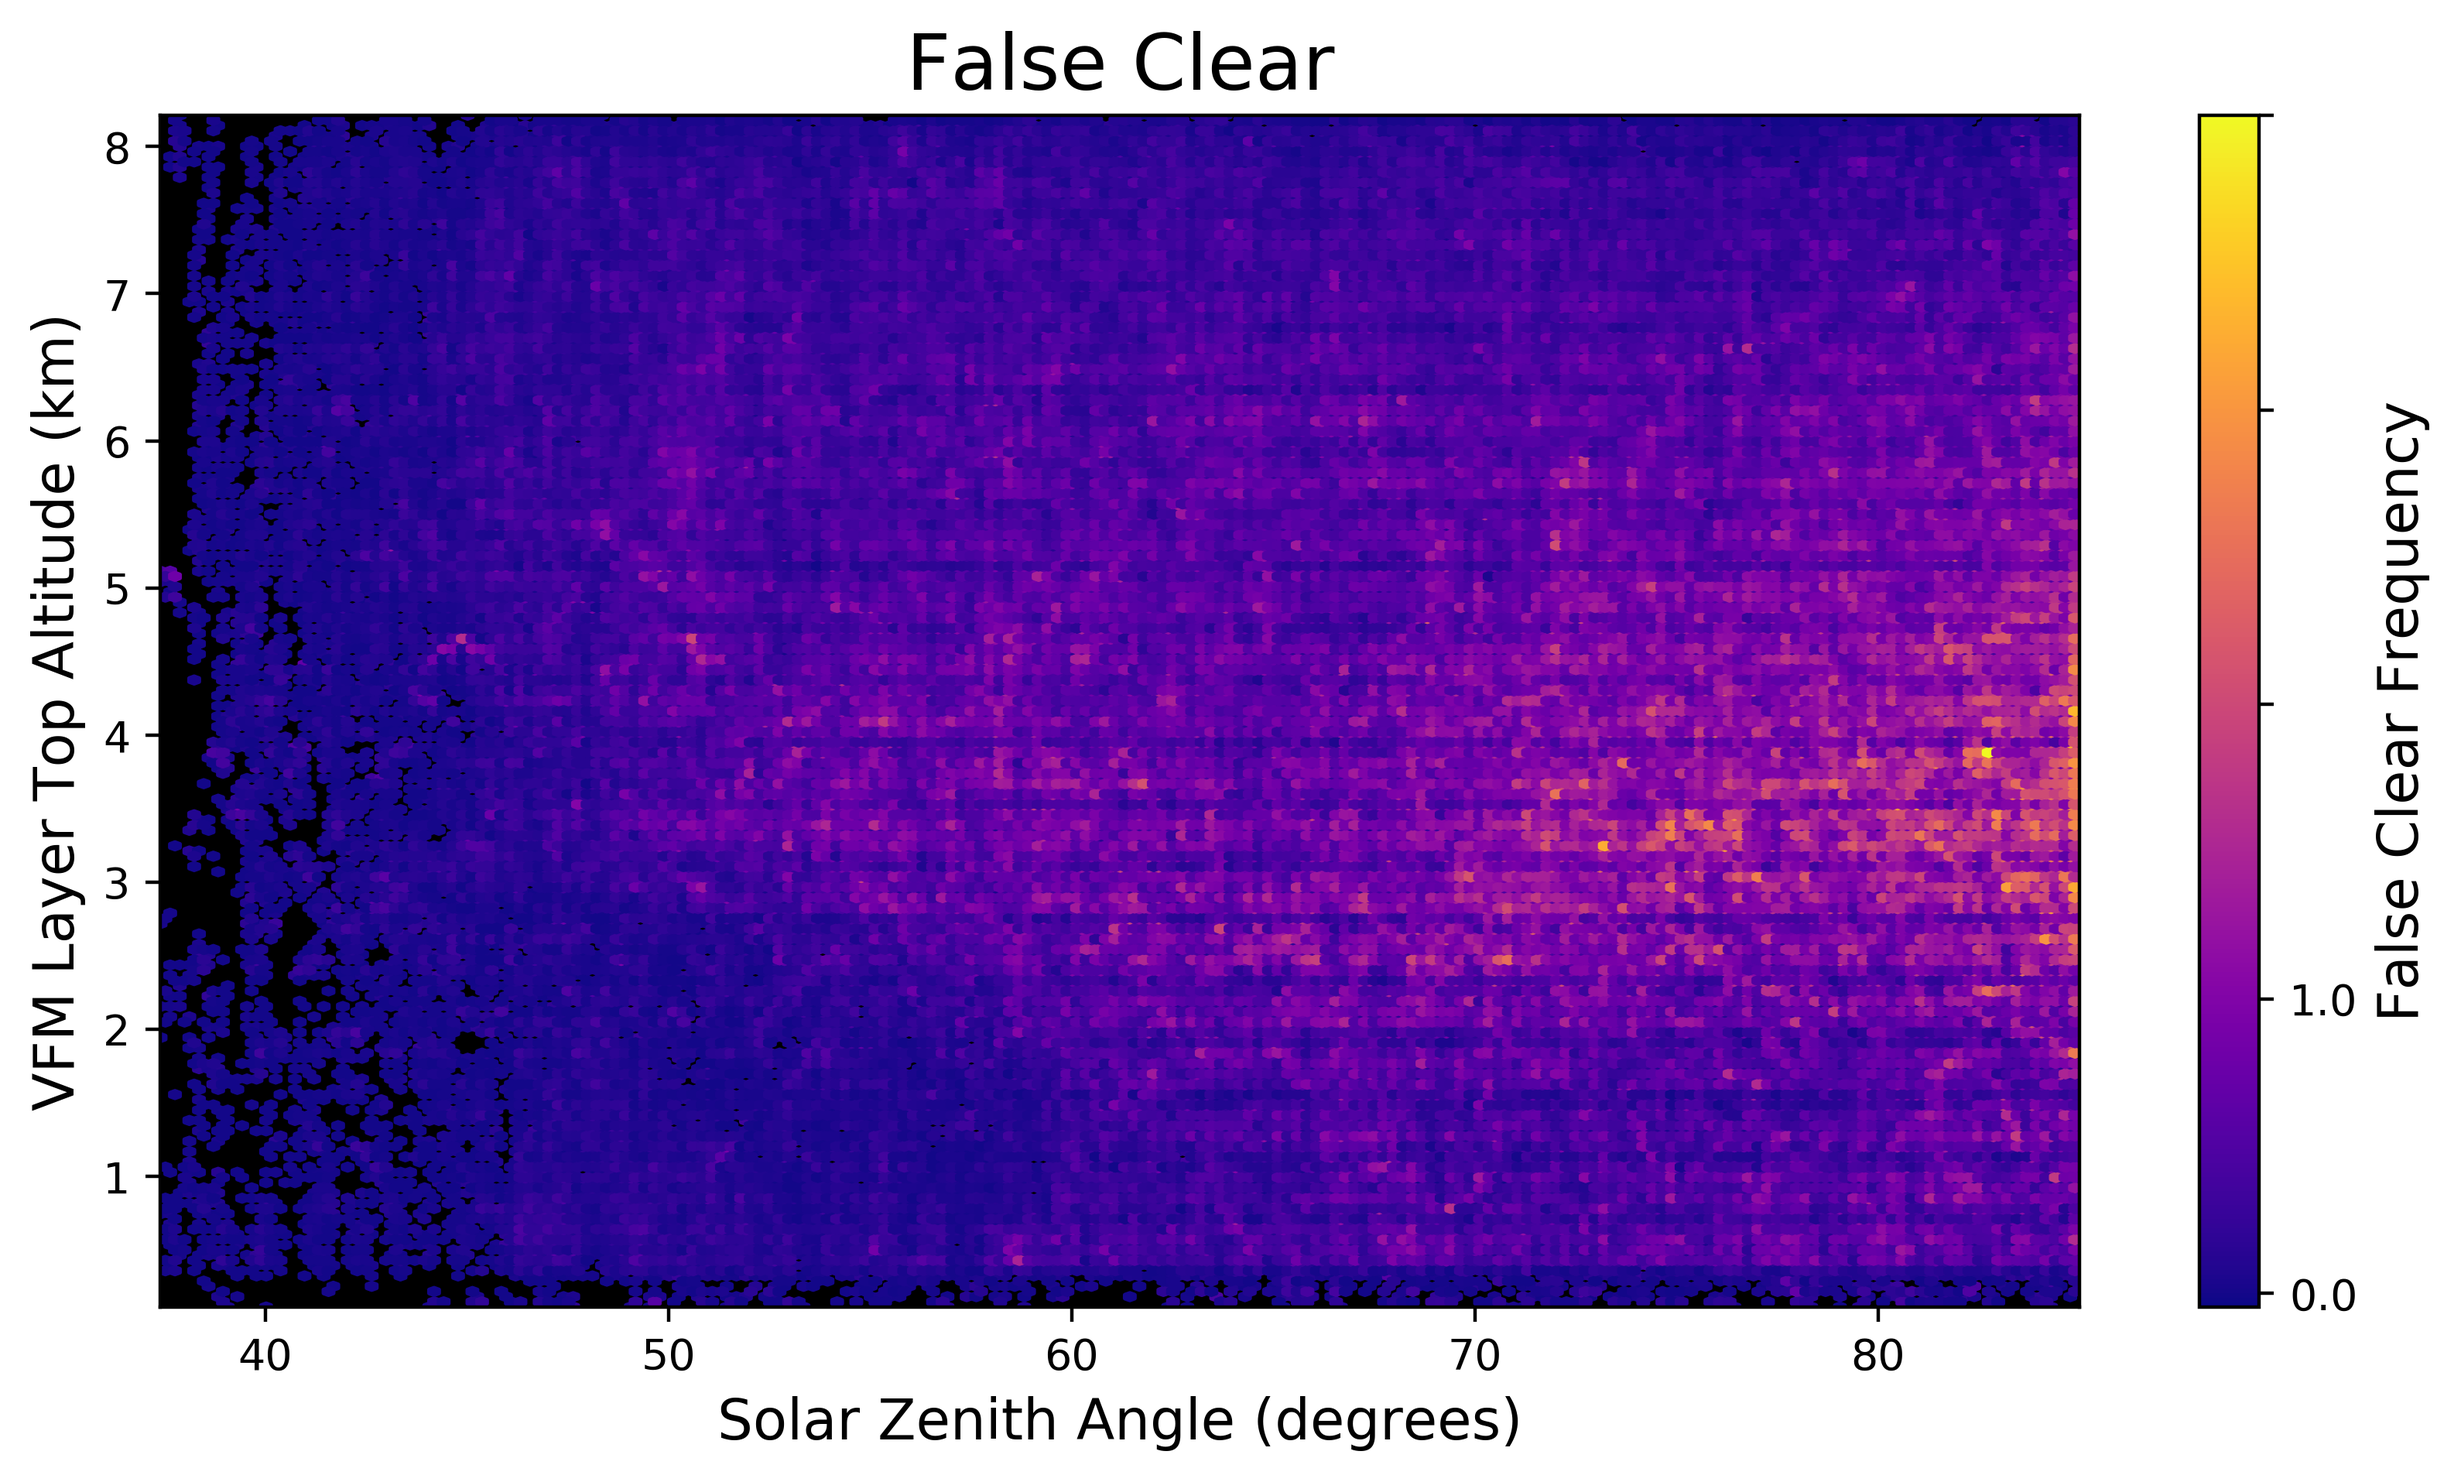
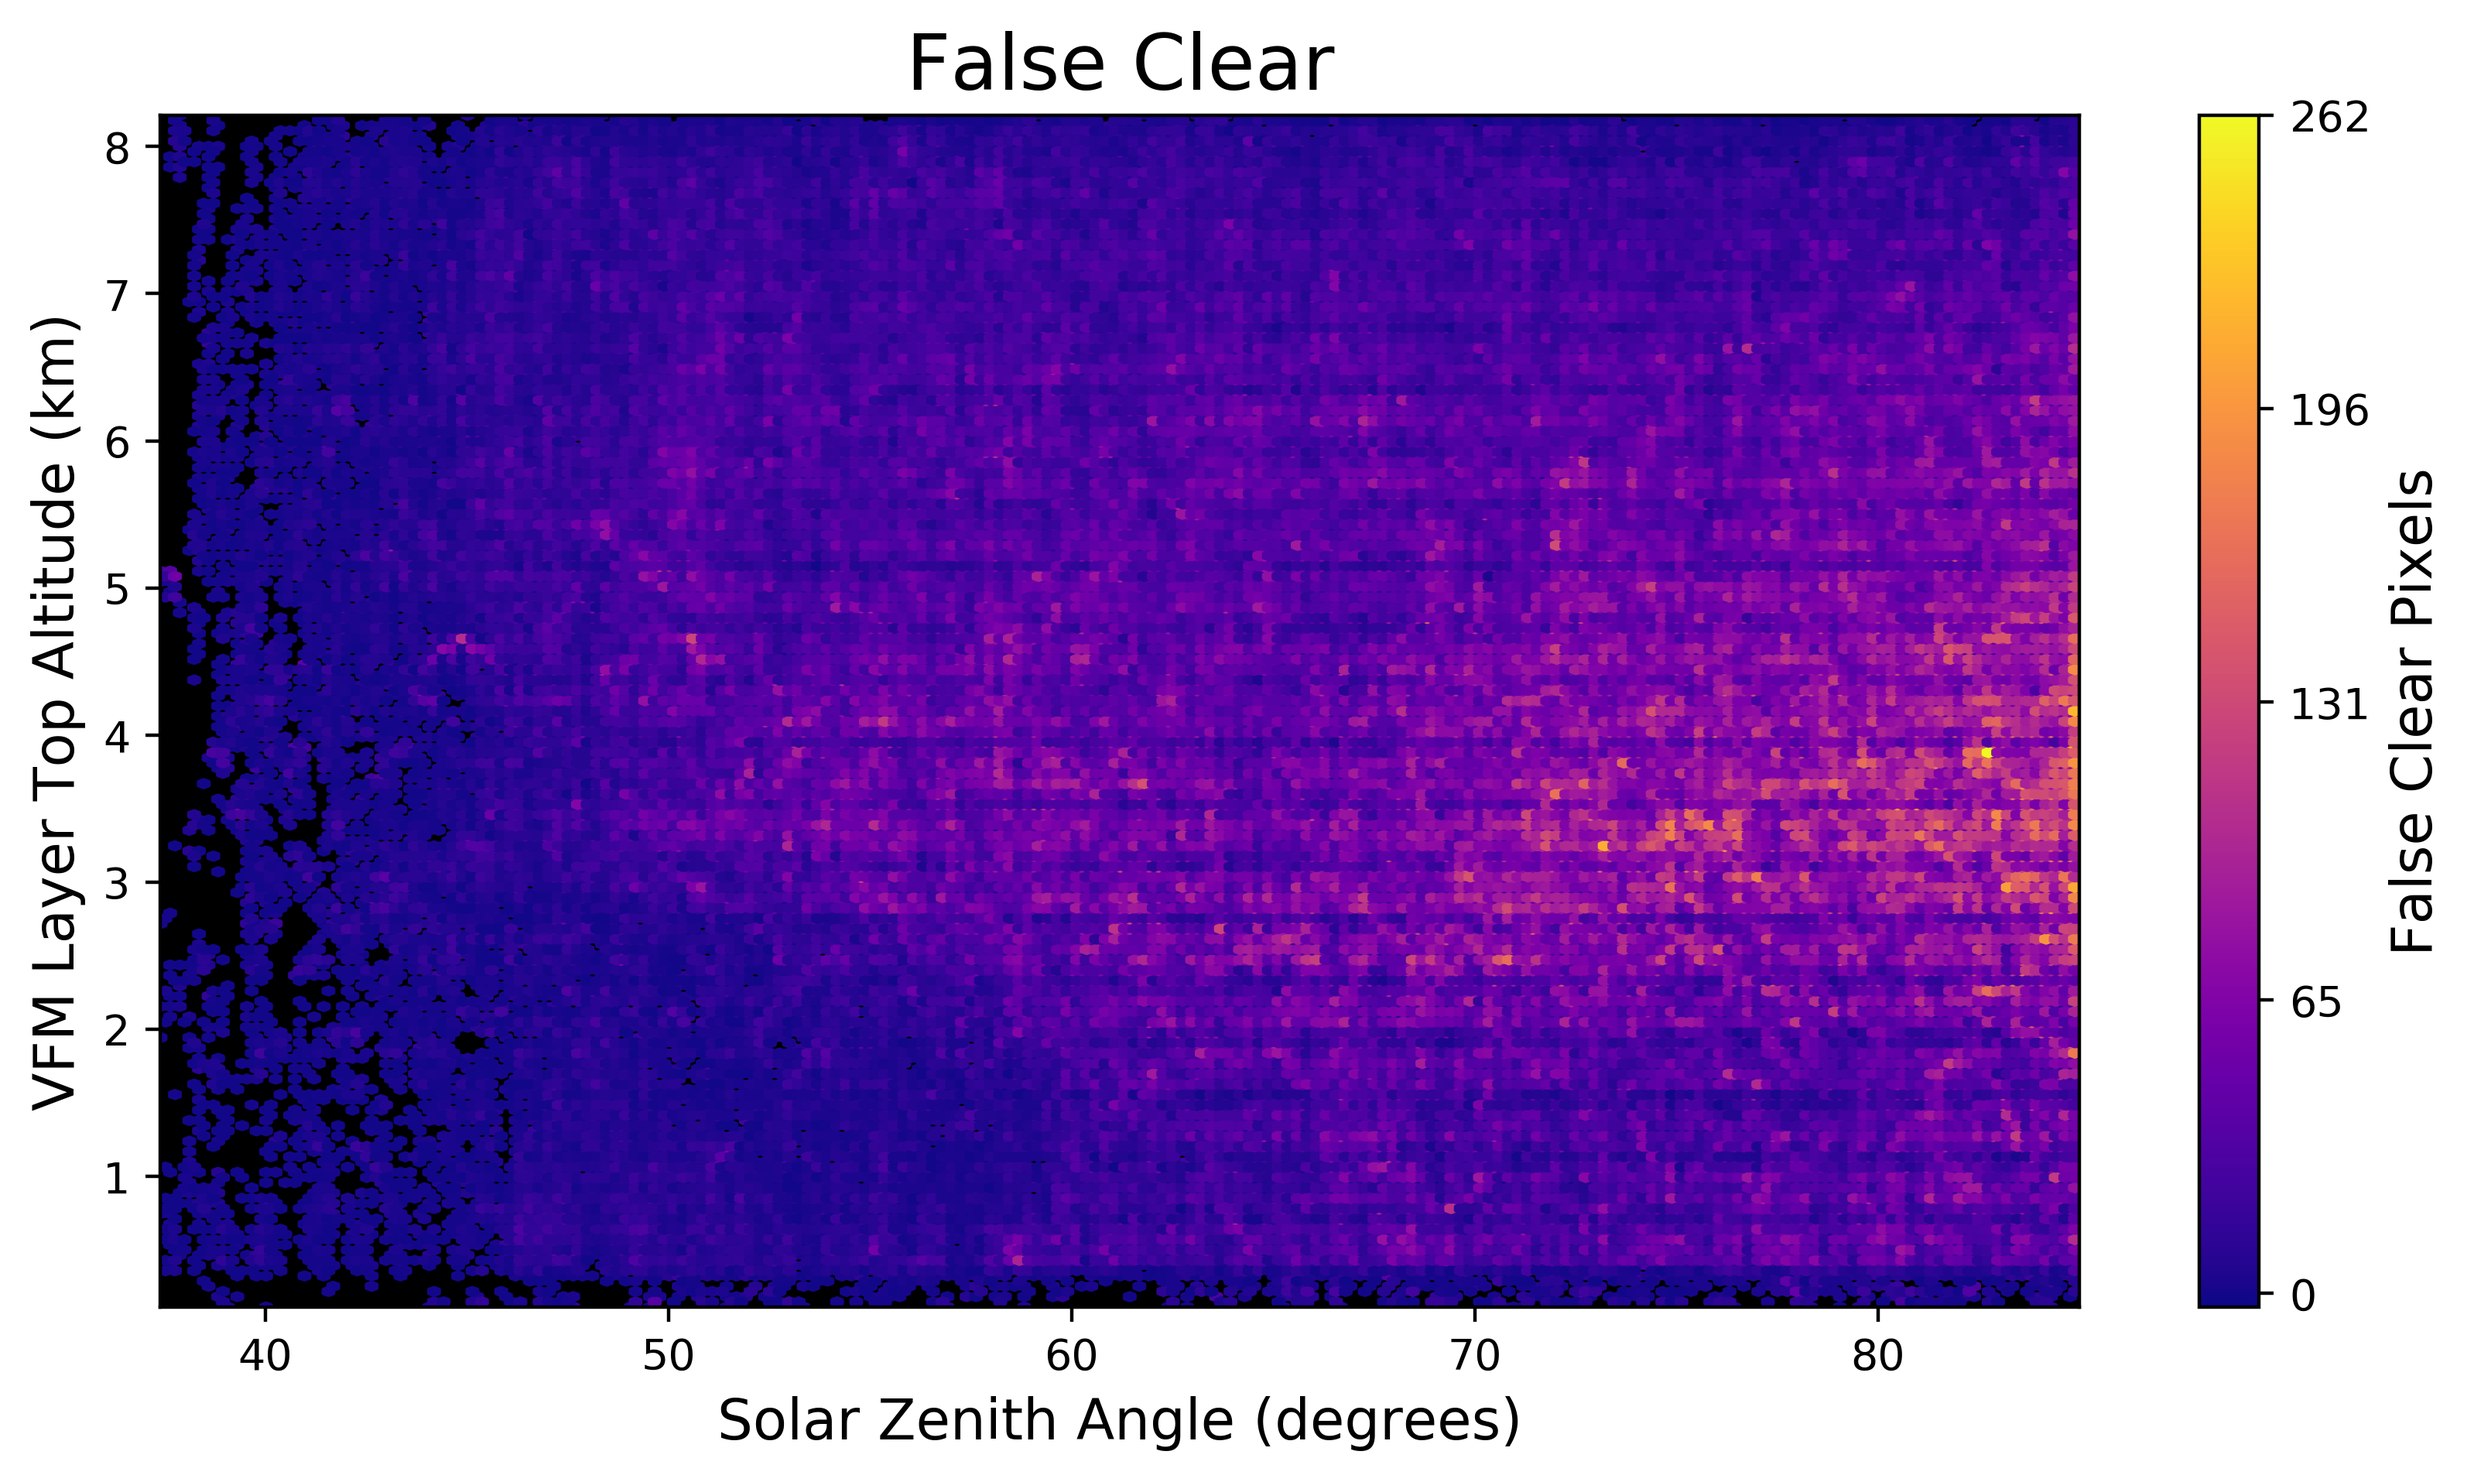
fig

diff --git a/Task_4/frequencyPlot.py b/Task_4/frequencyPlot.py
@@ -91,10 +91,10 @@ def sza_ta_falsePlot(x, y, vd='all', year=None, month=None, gbox=False, num_bins
     cb = fig.colorbar(hb, orientation='vertical', ax=ax, pad=0.05)#,extend='both')
     
     if vd == 'all': cb.set_ticks(np.linspace(0, 31, 5))
-    else: cb.set_ticks(np.linspace(hb.get_array().min(), hb.get_array().max(), 5))
-    cb.set_ticklabels(np.linspace(0, 1, 2))
-    #cb.set_ticklabels(np.linspace(0, hb.get_array().max(), 5))
-    cb.set_label(f'{labels[vd]} Frequency', fontsize=13)
+    else: cb.set_ticks(np.around(np.linspace(hb.get_array().min(), hb.get_array().max(), 5)))
+    #cb.set_ticklabels(np.linspace(0, 1, 2))
+    cb.set_ticklabels(np.linspace(0, hb.get_array().max(), 5, dtype=int))
+    cb.set_label(f'{labels[vd]} Pixels', fontsize=13)
     #fig.tight_layout()
      
     fig.savefig(f'./Task_4/pngs/freqplots/frequencyPlot-{year}-{month}_{vd}_{x}_{y}', bbox_inches='tight', dpi=400)
